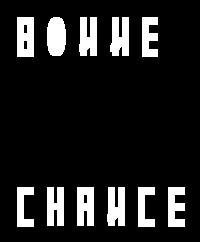
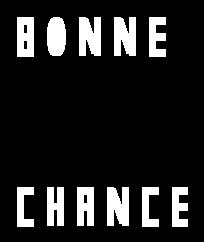
commit

diff --git a/src/main/java/Letter/LetterFactory.java b/src/main/java/Letter/LetterFactory.java
@@ -155,13 +155,13 @@ public final class LetterFactory {
         lettreN.addAll(barreVerticale.cloneCoords());
 
         Rectangle barreDroite = new Rectangle(0.5, 32.0);
-        barreDroite.translate(barreDroite.getCoords(), new Point2d(10.0, 0.0));
+        barreDroite.translate(barreDroite.getCoords(), new Point2d(15.0, 0.0));
         lettreN.addAll(barreDroite.getCoords());
 
         //barre diagonale
-        Rectangle barreDiagonale = new Rectangle(10.0, 1.0);
-        barreDiagonale.rotate(barreDiagonale.getCoords(), Math.toRadians(-50.0));
-        barreDiagonale.translate(barreDiagonale.getCoords(), new Point2d(2.0, 8.0));
+        Rectangle barreDiagonale = new Rectangle(32.0, 0.5);
+        barreDiagonale.rotate(barreDiagonale.getCoords(), Math.toRadians(70.0));
+        barreDiagonale.translate(barreDiagonale.getCoords(), new Point2d(7.0, 0.0));
         lettreN.addAll(barreDiagonale.getCoords());
 
         return new BaseShape(lettreN);
